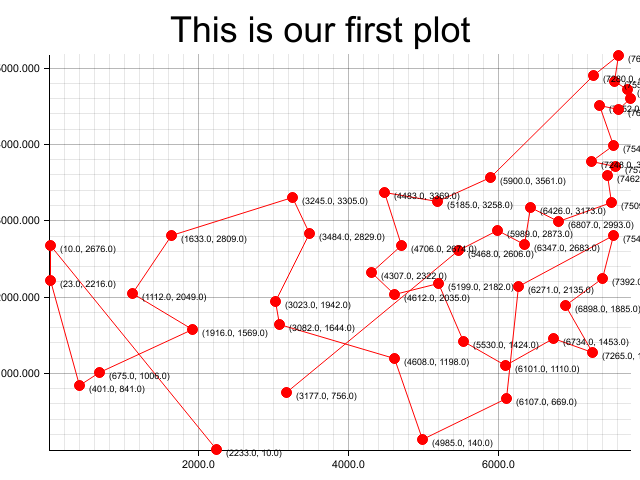
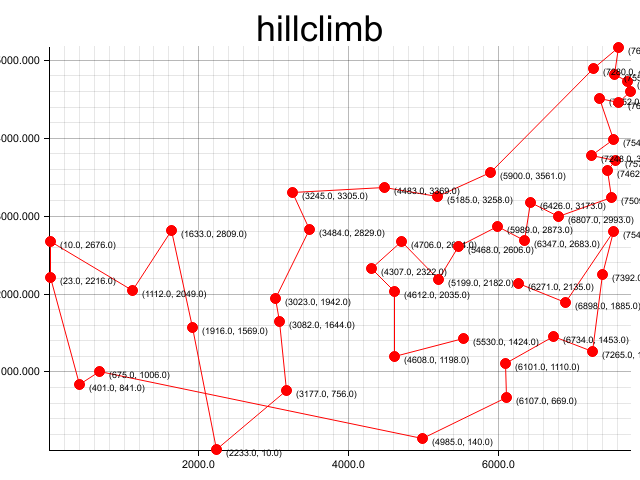
画像タイトル修正

diff --git a/src/main.rs b/src/main.rs
@@ -7,7 +7,7 @@ use std::io::{BufRead, BufReader};
 
 const FILE_NAME: &str = "att48.tsp";
 
-#[derive(Debug,Clone,Copy)]
+#[derive(Debug, Clone, Copy)]
 pub struct Node {
     pub id: i32,
     pub x: f64,
@@ -18,17 +18,17 @@ fn main() -> Result<(), Box<dyn Error>> {
     let mut rng = rand::thread_rng();
     let mut route = read_input_file()?;
     println!("random {:?}", total_distance(&route));
-    plot::plot_route(&route, "random.png")?;
+    plot::plot_route(&route, "random.png", "random")?;
     nearest_neighbor(&mut route, &mut rng);
     println!("nearest_neighbor {:?}", total_distance(&route));
-    plot::plot_route(&route, "nearest_neighbor.png")?;
+    plot::plot_route(&route, "nearest_neighbor.png", "nearest neighbor")?;
     let mut nr_route = route.clone();
     hillclimb(&mut route, 100000, &mut rng);
     println!("hillclimb {:?}", total_distance(&route));
-    plot::plot_route(&route, "hillclimb.png")?;
+    plot::plot_route(&route, "hillclimb.png", "hillclimb")?;
     two_opt(&mut nr_route, 100000);
     println!("two_opt {:?}", total_distance(&nr_route));
-    plot::plot_route(&nr_route, "two_opt.png")?;
+    plot::plot_route(&nr_route, "two_opt.png", "two opt")?;
     Ok(())
 }
 

diff --git a/src/plot.rs b/src/plot.rs
@@ -1,7 +1,11 @@
 use crate::Node;
 use plotters::prelude::*;
 
-pub fn plot_route(route: &Vec<Node>, path: &str) -> Result<(), Box<dyn std::error::Error>> {
+pub fn plot_route(
+    route: &Vec<Node>,
+    path: &str,
+    title: &str,
+) -> Result<(), Box<dyn std::error::Error>> {
     let root = BitMapBackend::new(path, (640, 480)).into_drawing_area();
     root.fill(&WHITE)?;
     let root = root.margin(10, 10, 10, 10);
@@ -16,7 +20,7 @@ pub fn plot_route(route: &Vec<Node>, path: &str) -> Result<(), Box<dyn std::erro
     // After this point, we should be able to draw construct a chart context
     let mut chart = ChartBuilder::on(&root)
         // Set the caption of the chart
-        .caption("This is our first plot", ("sans-serif", 40).into_font())
+        .caption(title, ("sans-serif", 40).into_font())
         // Set the size of the label region
         .x_label_area_size(20)
         .y_label_area_size(40)
